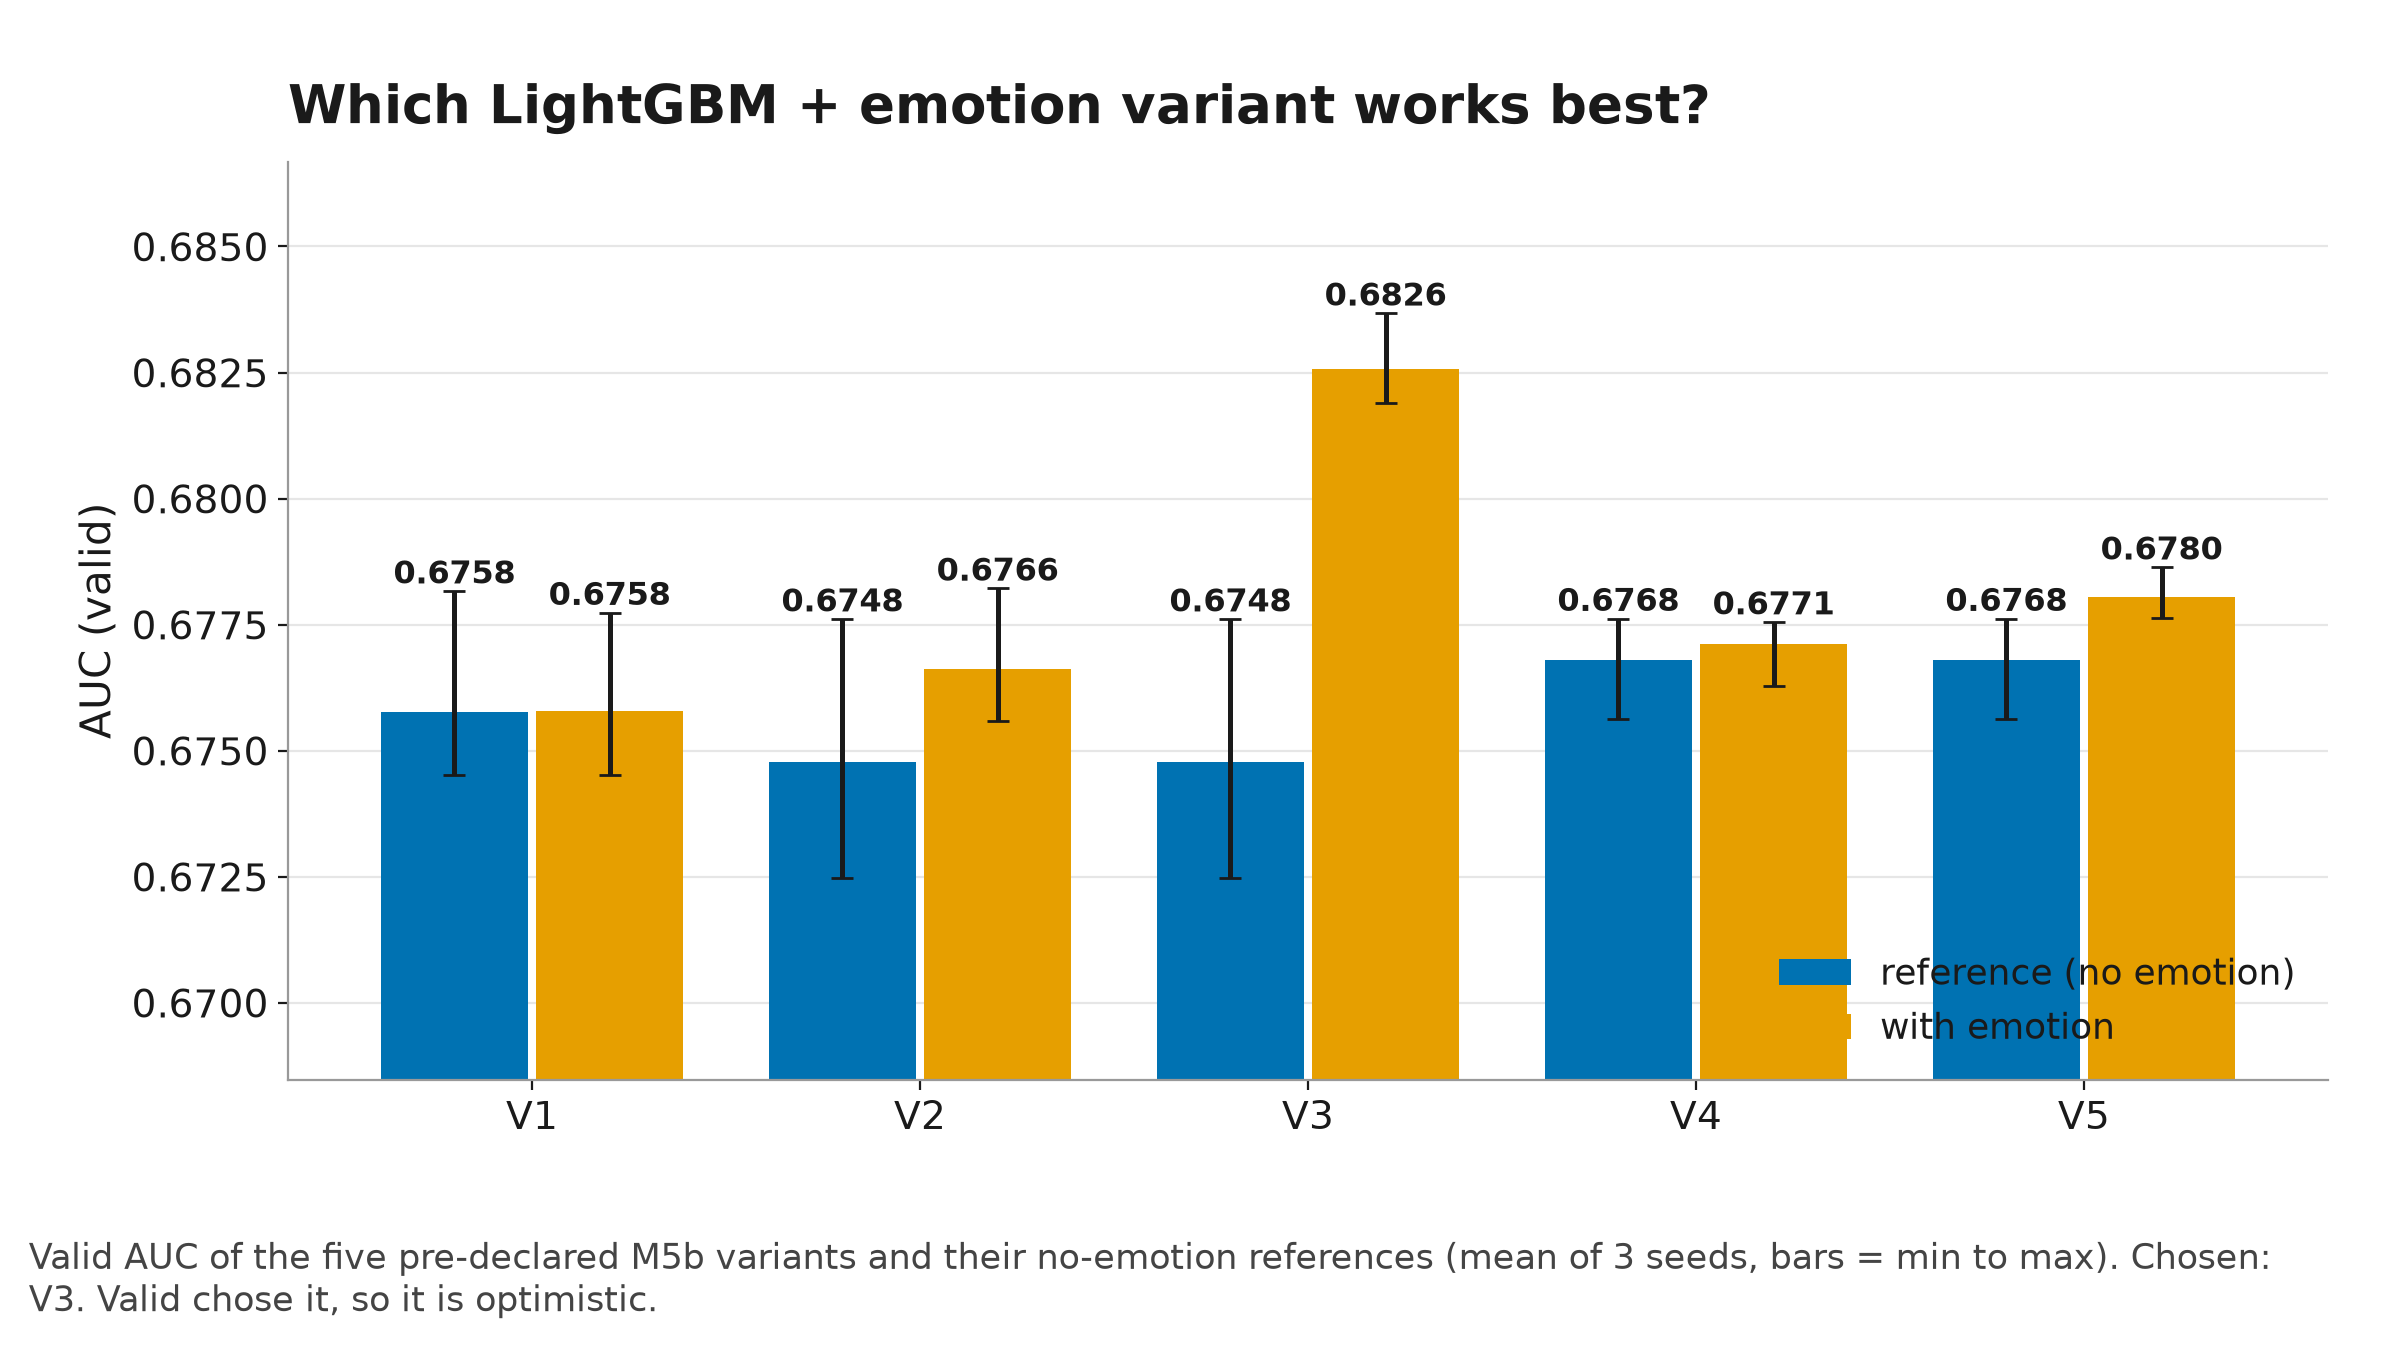
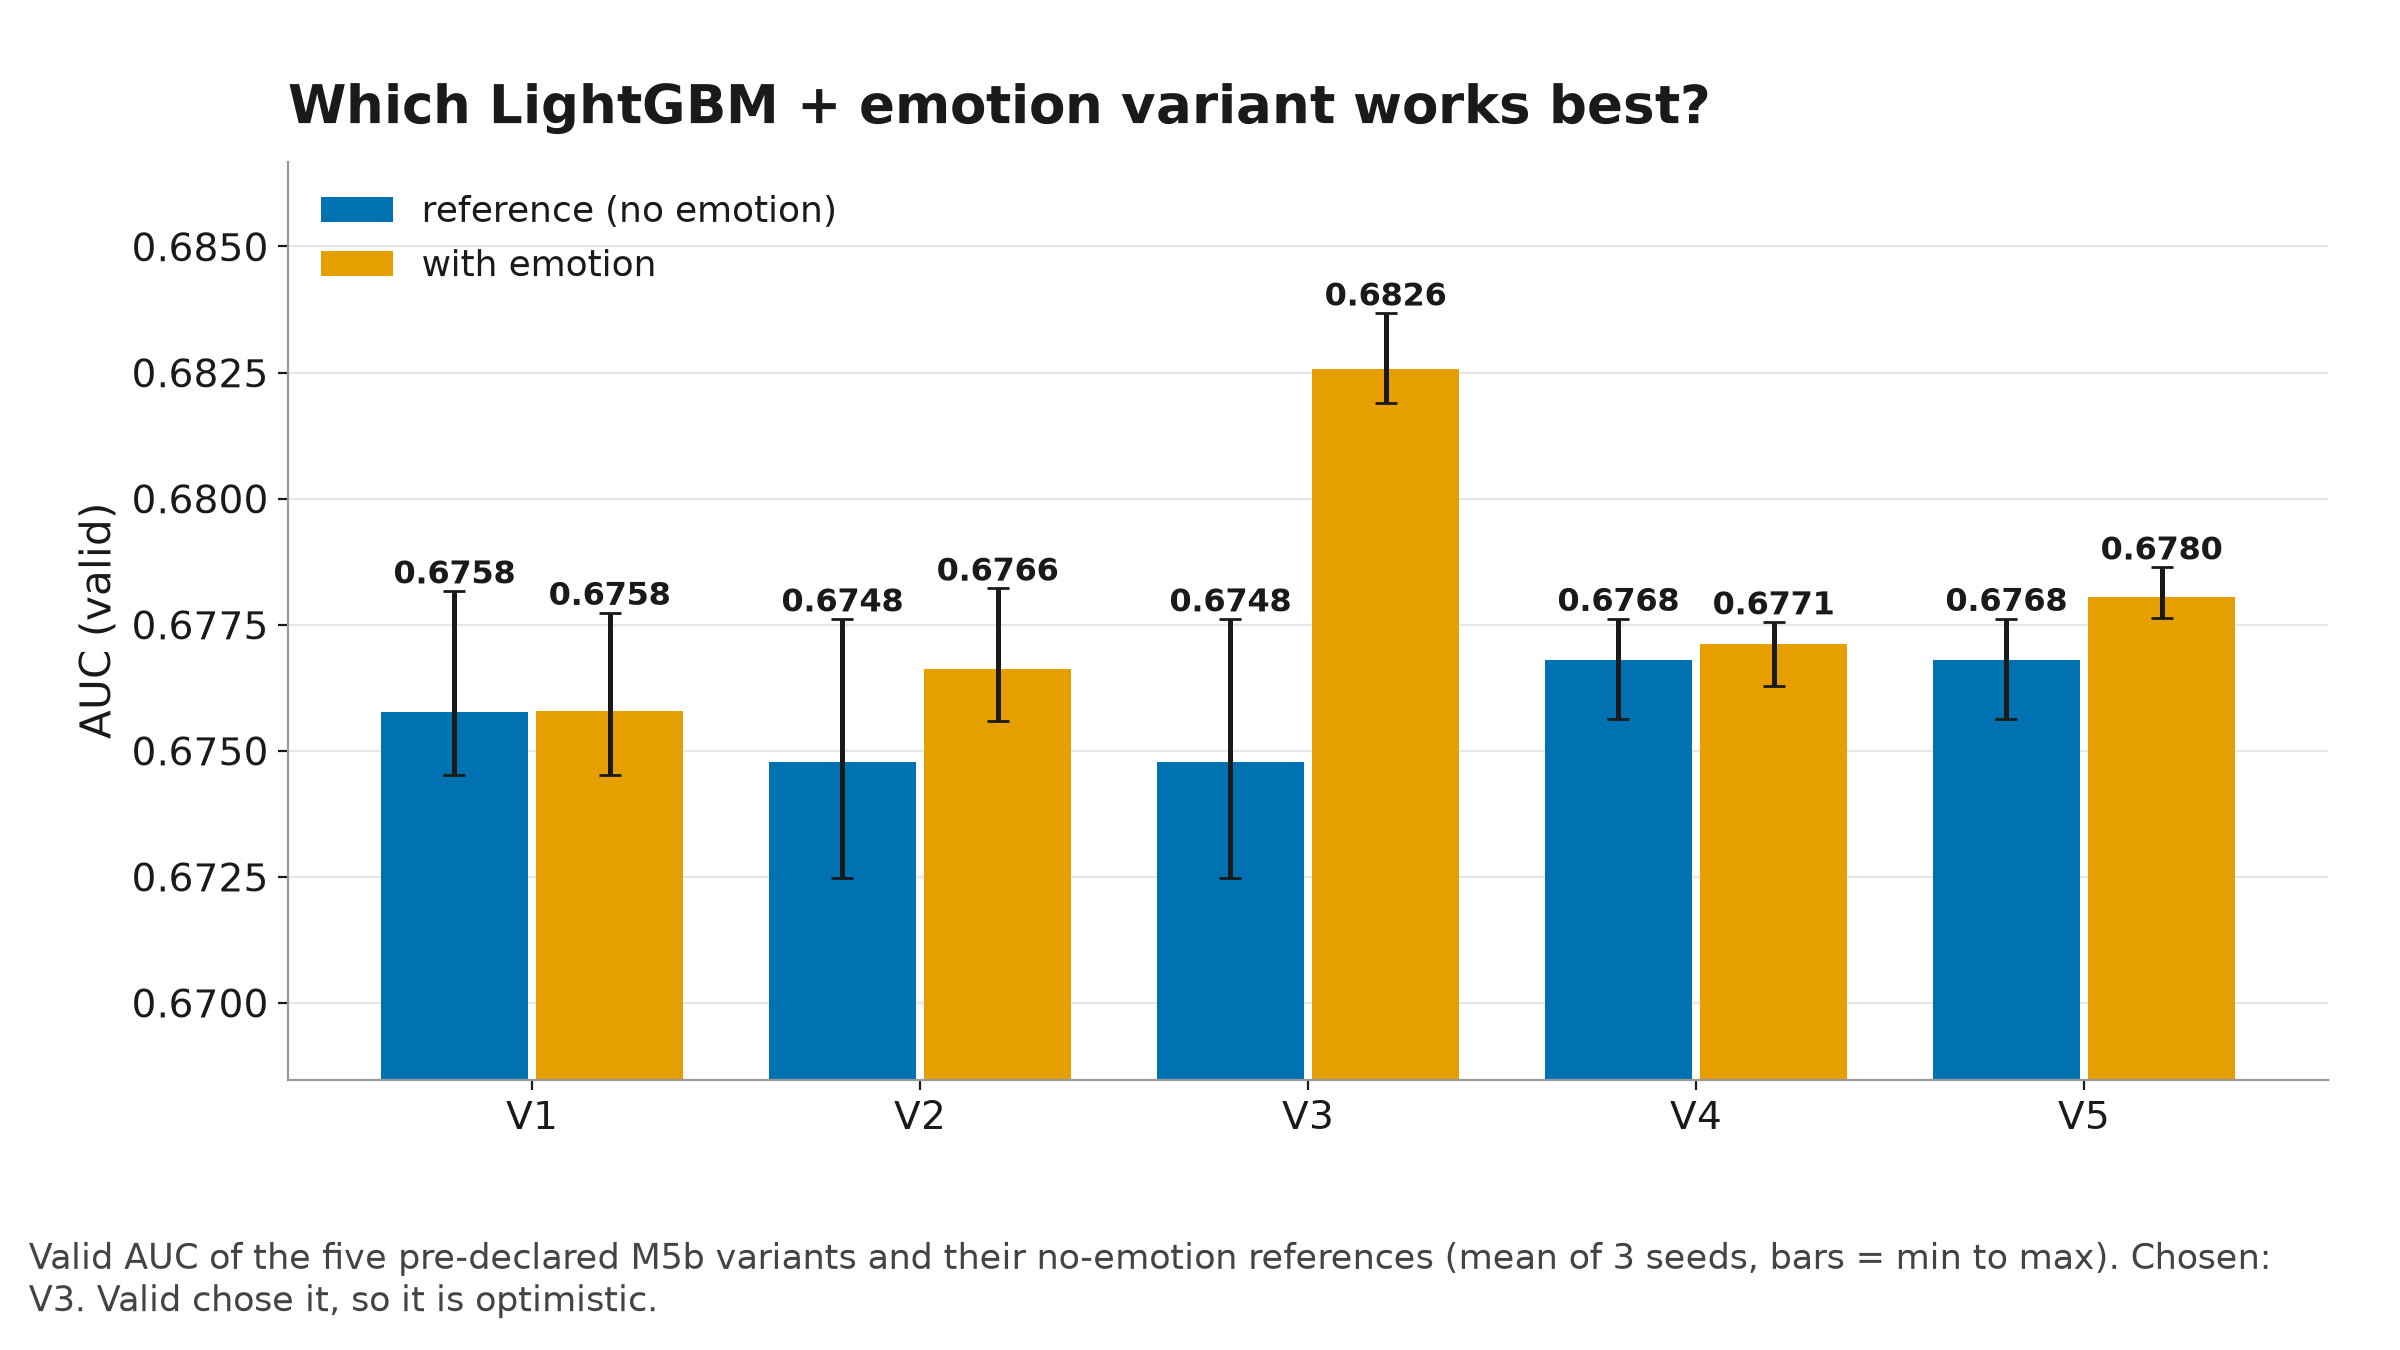
Overview sheet and chart fixes: labels near the bars, shorter names, honest M3b+ wording

Changed region(s): [[0.7188, 0.6844, 0.9688, 0.7778], [0.125, 0.1244, 0.2812, 0.2178], [0.2812, 0.1556, 0.3438, 0.1867]]

diff --git a/scripts/06_09_e7_final_report.py b/scripts/06_09_e7_final_report.py
@@ -105,7 +105,7 @@ def main():
                "Valid chose it, so it is optimistic.",
                var, [("reference (no emotion)", [agg.loc[refs[x], "mean"] for x in var], [agg.loc[refs[x], "min"] for x in var], [agg.loc[refs[x], "max"] for x in var], bc.BLUE),
                      ("with emotion", [agg.loc[x, "mean"] for x in var], [agg.loc[x, "min"] for x in var], [agg.loc[x, "max"] for x in var], bc.ORANGE)],
-               "AUC (valid)", fmt="{:.4f}", ylim=(float(agg["min"].min()) - 0.004, float(agg["max"].max()) + 0.003), legend_loc="lower right")
+               "AUC (valid)", fmt="{:.4f}", ylim=(float(agg["min"].min()) - 0.004, float(agg["max"].max()) + 0.003), legend_loc="upper left")
     order = [M2_NAME, M3_NAME, M3BP_NAME, M4_NAME, M5_NAME, M5B_NAME]
     vals, lo, hi = [], [], []
     for m in order:
@@ -117,10 +117,10 @@ def main():
     f = fam[(fam["part"] == "dev")].set_index("comparison")
     s1 = f.loc[f"{LABELS[M3BP_NAME]} - {LABELS[M3_NAME]}"]
     s2 = f.loc[f"{LABELS[M5B_NAME]} - {LABELS[M4_NAME]}"]
-    bc.bars(BEHAVIOUR_FIGS / "e7_final_comparison.png", "Final test: do the improved emotion models beat content-only ranking?",
+    bc.bars(BEHAVIOUR_FIGS / "e7_final_comparison.png", "Final test: emotion models against content-only ranking",
             f"Final-test AUC with 95% CIs. M3b+ - M3 {s1['mean_diff']:+.4f} (Holm p {s1['p_holm']:.3g}); M5b - M4 {s2['mean_diff']:+.4f} "
             f"(Holm p {s2['p_holm']:.3g}). Orange = with emotion.",
-            [LABELS[m].replace(" (", "\n(").replace(" = ", "\n= ") for m in order], vals, "AUC (final test)", low=lo, high=hi, fmt="{:.4f}",
+            ["M2\ncontent only", "M3\n+ emotion", "M3b+\n+ emotion, no decay", "M4\nLightGBM", "M5\n+ emotion", "M5b\n+ emotion (V3)"], vals, "AUC (final test)", low=lo, high=hi, fmt="{:.4f}",
             colors=[bc.ORANGE if m in (M3_NAME, M3BP_NAME, M5_NAME, M5B_NAME) else bc.BLUE for m in order], zero=False, base=0.5,
             lim=(0.5, max(hi) + 0.015))
     imp = pd.read_csv(TABLES / "behaviour_e7_m5b_importance.csv").sort_values("contrib_share", ascending=True).tail(16)

diff --git a/scripts/06_10_e8_personas.py b/scripts/06_10_e8_personas.py
@@ -96,11 +96,11 @@ def main():
     g = gains[gains["part"] == "dev"].set_index(["model_a", "model_b", "group"])
     groups = [*names, "too little history"]
     bc.grouped(BEHAVIOUR_FIGS / "e8_gain_by_persona.png", "Does emotion help some personas more?",
-               "Final-test AUC gain per persona: M3 over M2 (emotion added to content) and M3b+ over M3 (the adaptive version), 95% user-bootstrap CIs.",
+               "Final-test AUC gain per persona: M3 over M2 (emotion added to content) and M3b+ over M3 (refined profile), 95% user-bootstrap CIs.",
                [n.split(": ")[0] for n in groups],
                [(lab, [g.loc[(a, b, n), "gain"] for n in groups], [g.loc[(a, b, n), "ci_low"] for n in groups], [g.loc[(a, b, n), "ci_high"] for n in groups], col)
                 for a, b, lab, col in (("M2", "M3", "M3 - M2", bc.BLUE), ("M3", "M3b+", "M3b+ - M3", bc.ORANGE))],
-               "AUC gain (final test)", fmt="{:+.4f}", zero=True, notes=[n.split(": ")[1] if ": " in n else n for n in groups])
+               "AUC gain (final test)", fmt="{:+.4f}", zero=True, notes=[n.split(": ")[1] if ": " in n else "" for n in groups])
 
 
 if __name__ == "__main__":

diff --git a/src/behaviour_charts.py b/src/behaviour_charts.py
@@ -87,14 +87,14 @@ def bars(path, title, caption, labels, values, ylabel, low=None, high=None, colo
         ax.set_ylabel(ylabel)
         top = np.asarray(high if high is not None else values, dtype=float)
         bottom = np.asarray(low if low is not None else values, dtype=float)
-        span = float(np.nanmax(np.abs(np.r_[top, bottom]))) or 1.0
+        span = float(np.nanmax(np.abs(np.r_[top, bottom] - base))) or 1.0
         for x, v, t, b in zip(pos, values, top, bottom):
             up = v >= 0
             ax.text(x, (t if up else b) + (0.03 if up else -0.03) * span, fmt.format(v), ha="center", va="bottom" if up else "top",
                     fontsize=13, fontweight="bold")
         if zero:
             ax.axhline(0, color=INK, linewidth=1.5)
-        lo_lim = min(0, float(np.nanmin(bottom))) if zero else float(np.nanmin(bottom))
+        lo_lim = min(base, float(np.nanmin(bottom))) if zero else float(np.nanmin(bottom))
         ax.set_ylim(*(lim or (lo_lim - 0.18 * span, float(np.nanmax(top)) + 0.2 * span)))
     if xlabel and not horizontal:
         ax.set_xlabel(xlabel)

diff --git a/scripts/06_11_e9_diversity.py b/scripts/06_11_e9_diversity.py
@@ -49,7 +49,7 @@ def main():
                f"{e3['diff_vs_m2']:+.3f}. Ethics note: a ranking that narrows emotional variety can reinforce mood loops; we only measure it here.",
                list(MODELS.values()), [(name, [d.loc[(m, kind), "mean"] for m in MODELS], None, None, col)
                                        for kind, name, col in (("emotion", "emotions in top 10", bc.ORANGE), ("category", "categories in top 10", bc.BLUE))],
-               "Distinct values in the top 10 (final test)", fmt="{:.2f}")
+               "Distinct values in the top 10 (final test)", fmt="{:.2f}", ylim=(0, 6.6), legend_loc="upper right")
 
 
 if __name__ == "__main__":

diff --git a/scripts/06_12_overview.py b/scripts/06_12_overview.py
@@ -7,7 +7,7 @@ import _bootstrap  # noqa: F401
 from src.behaviour_charts import contact_sheet
 from src.config import BEHAVIOUR_FIGS
 
-BEST = ["e7_final_comparison.png", "e1_gain_by_tertile.png", "e4_m3_gain_by_exposure.png", "e5_topic_vs_residual.png",
+BEST = ["e7_final_comparison.png", "e1_gain_by_tertile.png", "e8_gain_by_persona.png", "e5_topic_vs_residual.png",
         "e7_m5b_variants_valid.png", "e9_diversity.png"]
 
 if __name__ == "__main__":
